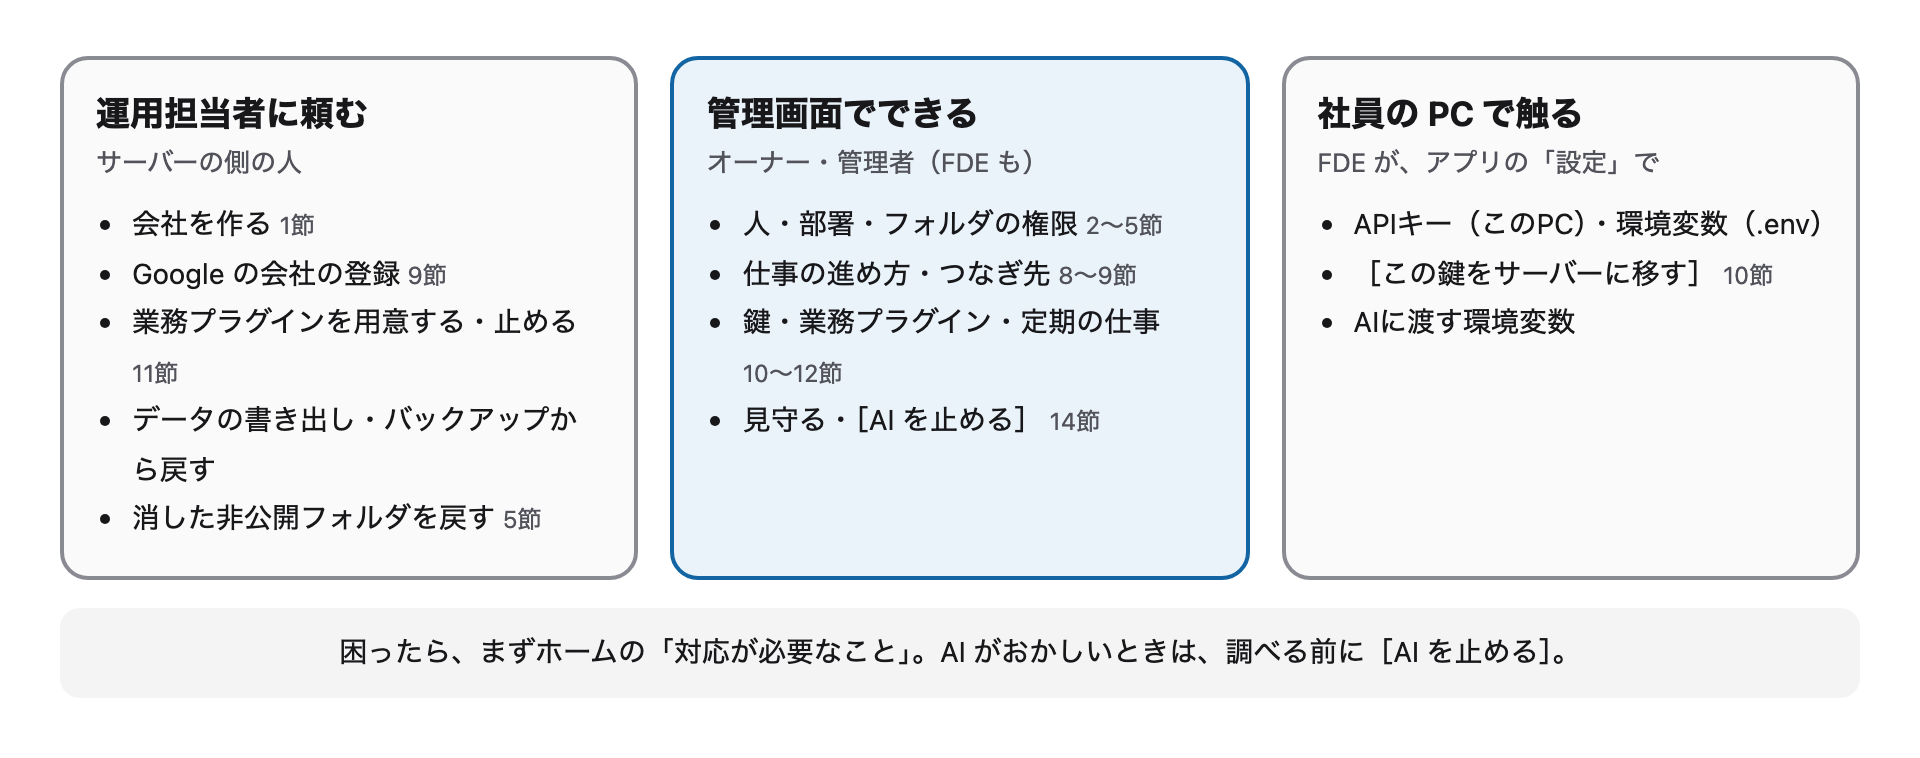
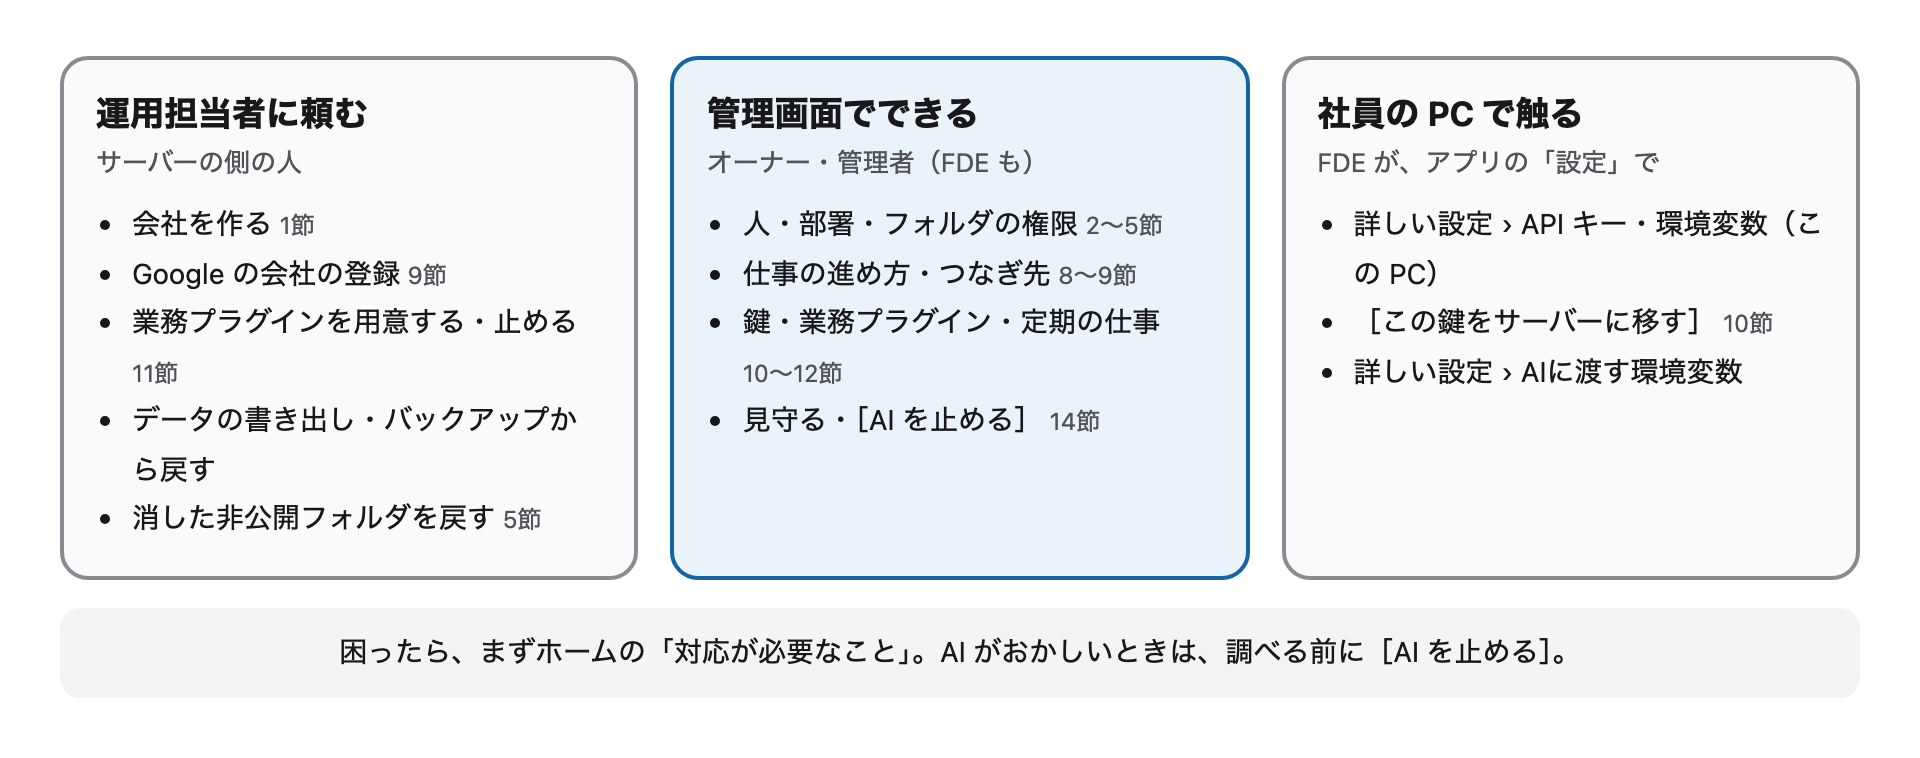
docs(manual-admin): the who-does-what diagram names the settings' 詳しい設定 pages
Claude-Session: https://claude.ai/code/session_01HCZRwqRkDF5Nj1GwyD9baC

Changed region(s): [[0.6875, 0.2731, 0.9688, 0.5158]]

diff --git a/admin/tests/manual/diagrams/who-does-what-diagram.html b/admin/tests/manual/diagrams/who-does-what-diagram.html
@@ -39,9 +39,9 @@
       <h3>社員の PC で触る</h3>
       <p class="who">FDE が、アプリの「設定」で</p>
       <ul>
-        <li>APIキー（このPC）・環境変数（.env）</li>
+        <li>詳しい設定 › API キー・環境変数（この PC）</li>
         <li>［この鍵をサーバーに移す］ <span class="chapter">10節</span></li>
-        <li>AIに渡す環境変数</li>
+        <li>詳しい設定 › AIに渡す環境変数</li>
       </ul>
     </div>
   </div>
